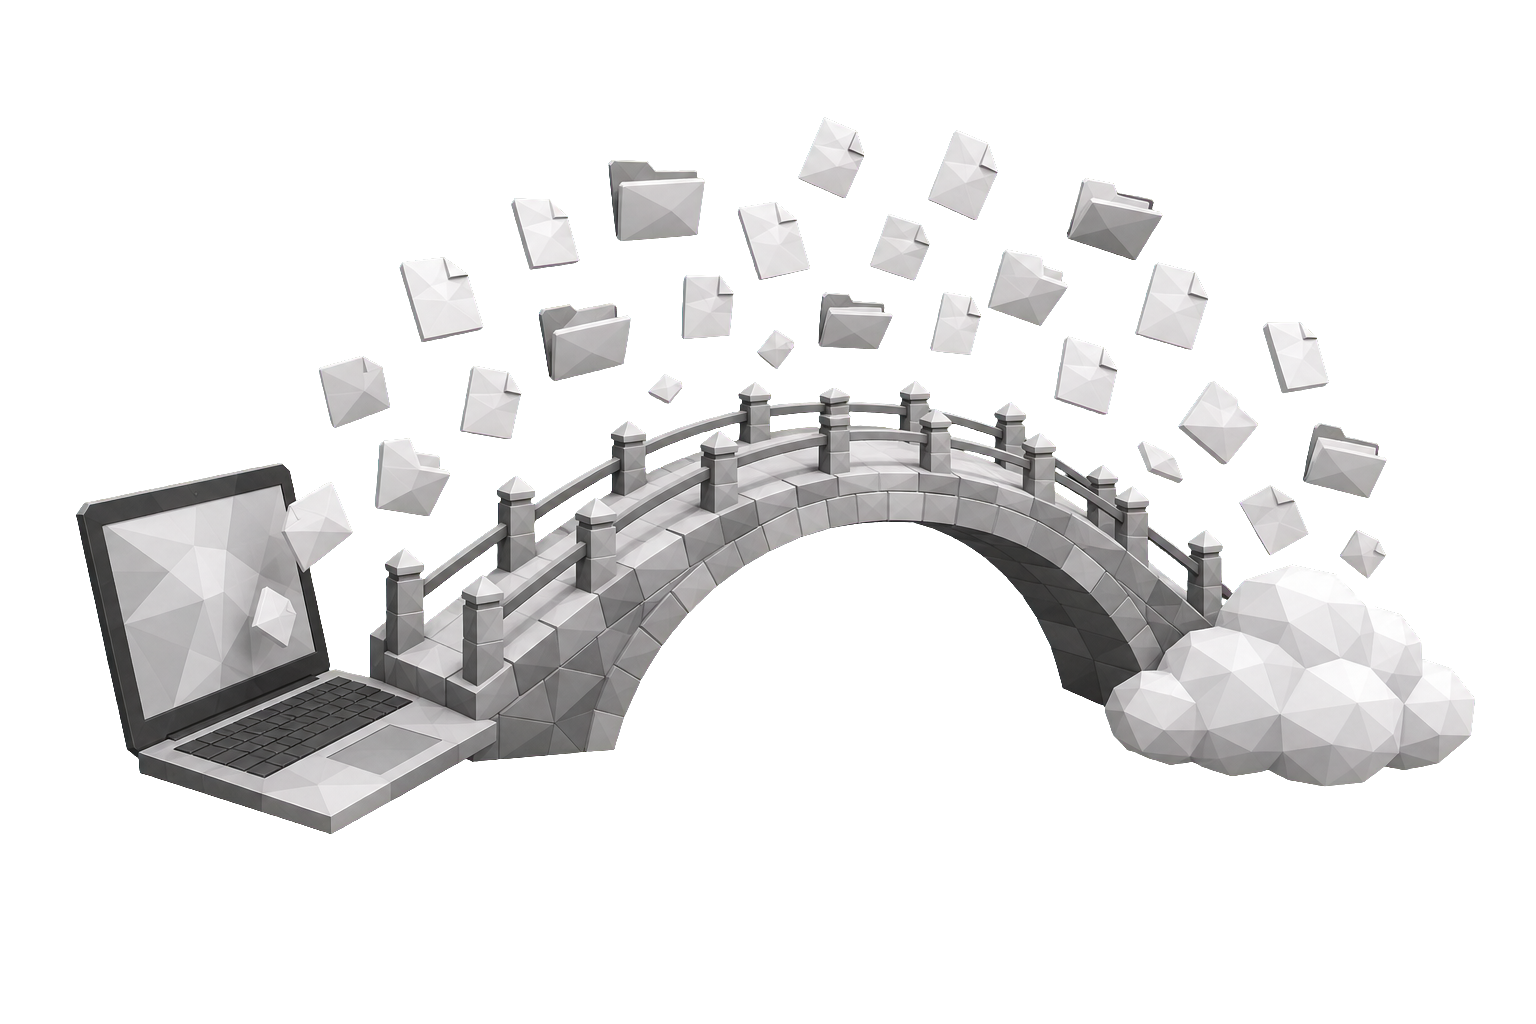
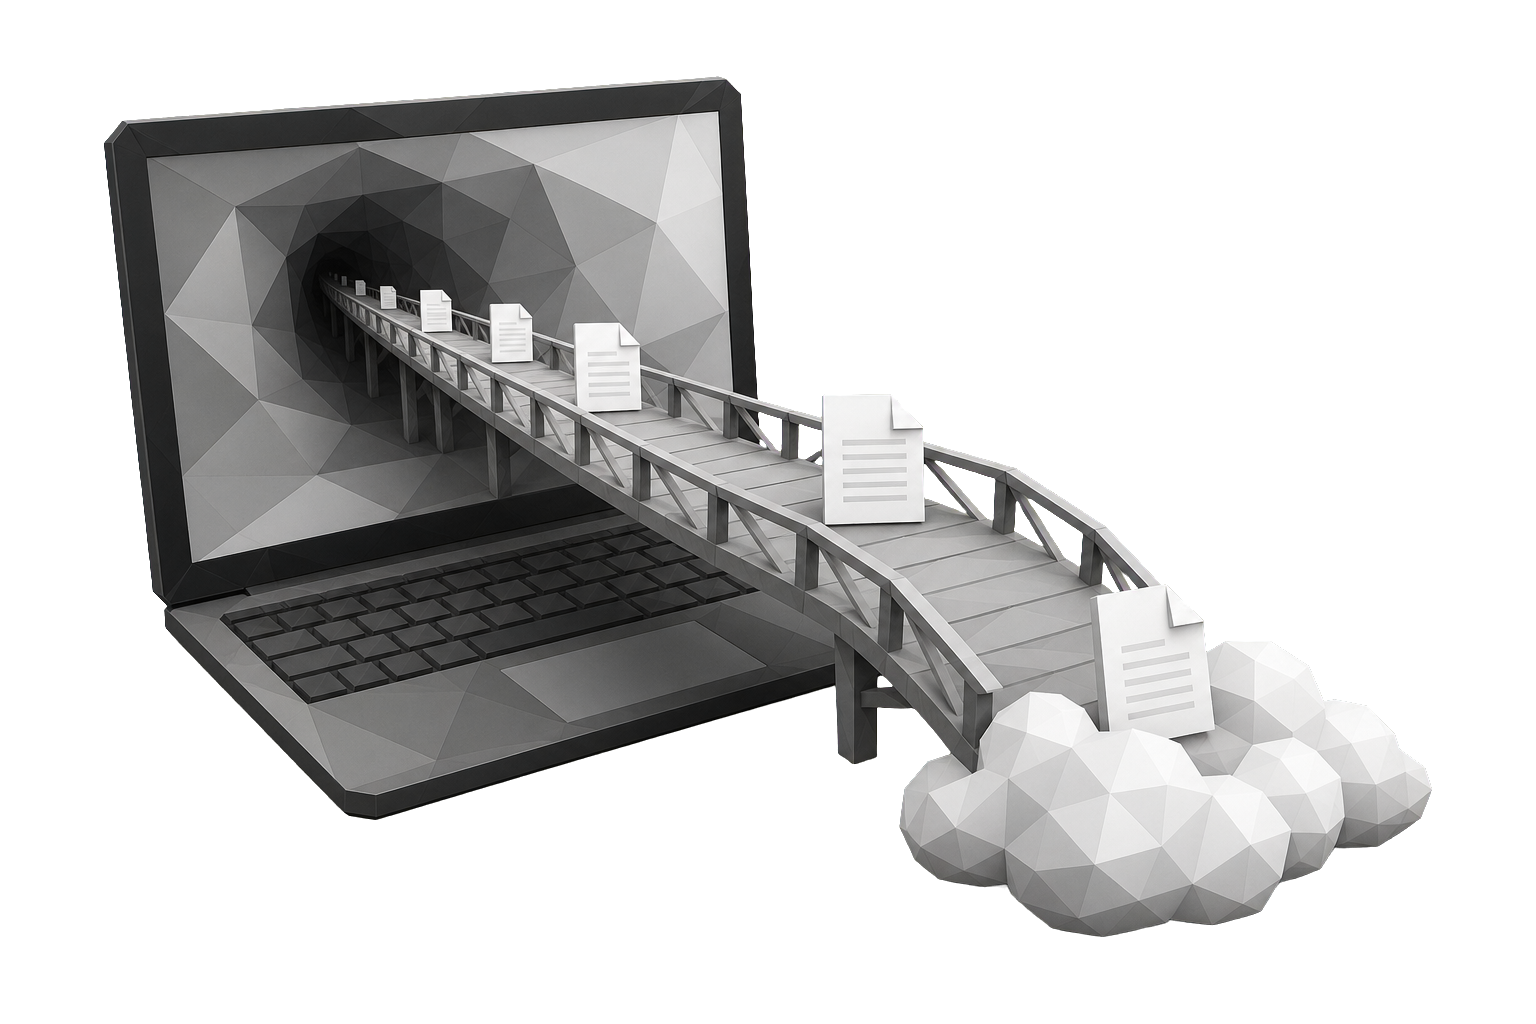
feat(www): ship the v9 hero art and ring the orbit on its cloud

diff --git a/apps/www/app/components/hero.tsx b/apps/www/app/components/hero.tsx
@@ -9,7 +9,7 @@ const agentMarks = [
   { name: "Cursor", startAt: 2 / 3, url: "/marks/cursor.svg" },
 ];
 
-const ORBIT_RADIUS = 120;
+const ORBIT_RADIUS = 110;
 const MARK_SIZE = 44;
 
 const OrbitSet = () => (
@@ -38,7 +38,7 @@ export const Hero = () => (
           src="/hero.png"
           width={1536}
         />
-        <div className="absolute top-[65%] left-[83%] -translate-x-1/2 -translate-y-1/2">
+        <div className="absolute top-[74%] left-[72%] -translate-x-1/2 -translate-y-1/2">
           <div className="scale-[0.55] sm:scale-[0.85] md:scale-100">
             <OrbitSet />
           </div>